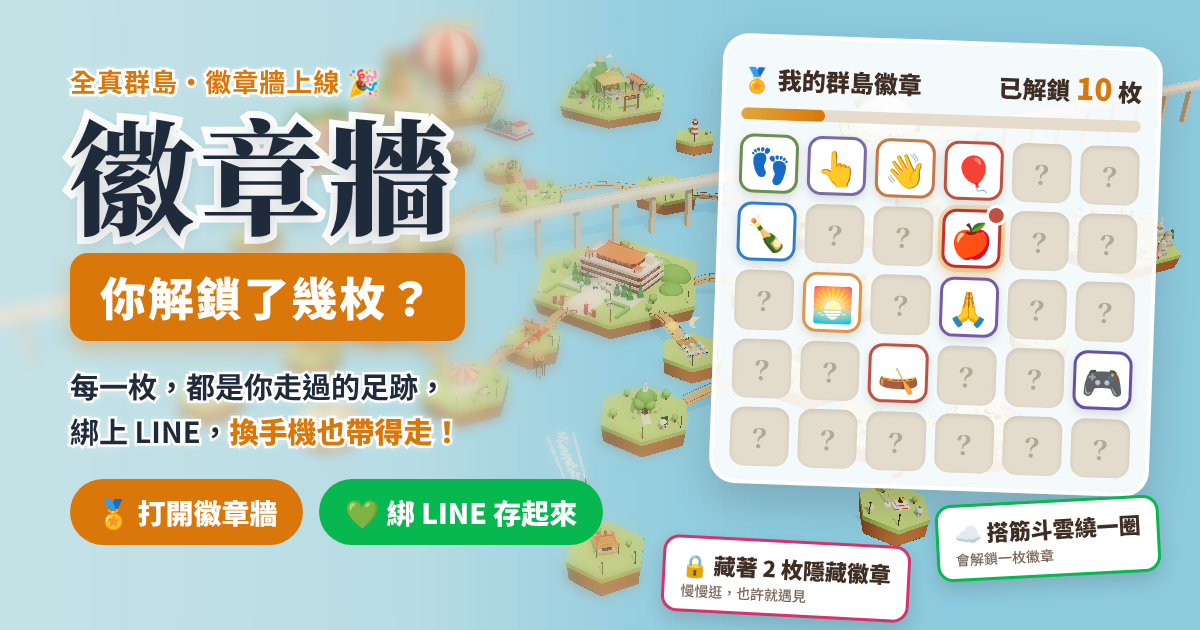
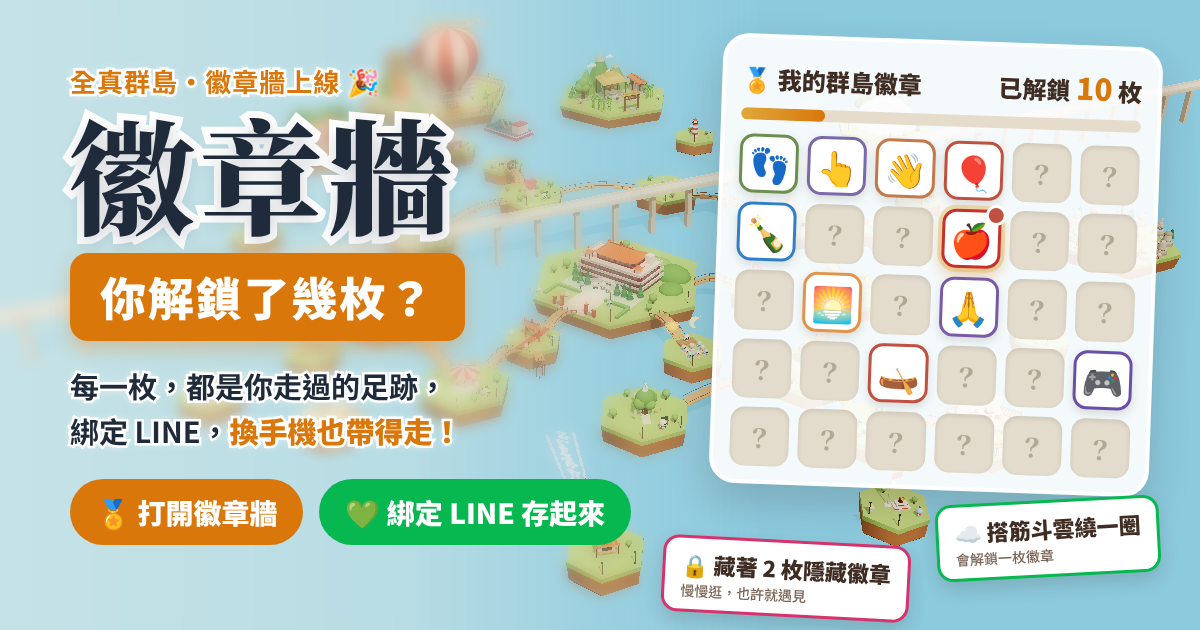
徽章牆縮圖與文案：「綁上 LINE」改成「綁定 LINE」
Claude-Session: https://claude.ai/code/session_01CYjxtCfQ8MjKojeoS8Ncse

Changed region(s): [[0.3392, 0.754, 0.5242, 0.8746], [0.0617, 0.6635, 0.1233, 0.7238]]

diff --git a/islands/badges/index.html b/islands/badges/index.html
@@ -5,11 +5,11 @@
 <meta name="viewport" content="width=device-width, initial-scale=1">
 <meta name="robots" content="noindex, nofollow">
 <title>徽章牆｜全真群島</title>
-<meta name="description" content="全真群島的 48 枚徽章，你解鎖了幾枚？逛島、寫瓶中信、搭熱氣球，每一步都算數；綁上 LINE，換手機也帶得走。">
+<meta name="description" content="全真群島的 48 枚徽章，你解鎖了幾枚？逛島、寫瓶中信、搭熱氣球，每一步都算數；綁定 LINE，換手機也帶得走。">
 <meta property="og:type" content="website">
 <meta property="og:site_name" content="全真群島・2027 全真社青">
 <meta property="og:title" content="🏅 群島 48 枚徽章，你解鎖了幾枚？">
-<meta property="og:description" content="慢慢逛、慢慢收，每一枚都是你的足跡 ✨ 還藏著 2 枚隱藏徽章。綁上 LINE，換手機也帶得走。">
+<meta property="og:description" content="慢慢逛、慢慢收，每一枚都是你的足跡 ✨ 還藏著 2 枚隱藏徽章。綁定 LINE，換手機也帶得走。">
 <meta property="og:url" content="https://steven4dev.github.io/yiguandao-2027-course/islands/badges/">
 <meta property="og:image" content="https://steven4dev.github.io/yiguandao-2027-course/islands/badges/og-badges.png">
 <meta property="og:image:secure_url" content="https://steven4dev.github.io/yiguandao-2027-course/islands/badges/og-badges.png">

diff --git a/islands/promo/poster-badges.html b/islands/promo/poster-badges.html
@@ -50,8 +50,8 @@ h1{margin:6px 0 0;font-family:"Noto Serif TC",serif;font-weight:900;font-size:12
   <div class="kick">全真群島・徽章牆上線 🎉</div>
   <h1>徽章牆</h1>
   <div class="pill">你解鎖了幾枚？</div>
-  <div class="desc">每一枚，都是你走過的足跡，<br>綁上 LINE，<b>換手機也帶得走！</b></div>
-  <div class="btns"><span class="btn" style="background:#d9770a">🏅 打開徽章牆</span><span class="btn" style="background:#06b84f">💚 綁 LINE 存起來</span></div>
+  <div class="desc">每一枚，都是你走過的足跡，<br>綁定 LINE，<b>換手機也帶得走！</b></div>
+  <div class="btns"><span class="btn" style="background:#d9770a">🏅 打開徽章牆</span><span class="btn" style="background:#06b84f">💚 綁定 LINE 存起來</span></div>
 </div>
 <script>
 // 30 格示意：亮的用真實徽章的 emoji 與主色，其餘暗格；其中一格有「新徽章」紅點、一格發光

diff --git a/islands/promo/line-badges.md b/islands/promo/line-badges.md
@@ -24,7 +24,7 @@
 搭熱氣球…每一步，
 都會解鎖一枚徽章 ✨
 
-💚 綁上 LINE 帳號，
+💚 綁定 LINE 帳號，
 換手機，足跡也帶得走！
 （連結）
 ```
@@ -43,7 +43,7 @@
 | 縮圖說明 | 每一枚，都是你走過的足跡 | 肯定感、被看見 |
 | 縮圖小卡 | 藏著 2 枚隱藏徽章，慢慢逛，也許就遇見 | 探索的期待，沒有壓力 |
 | 訊息第一句 | 猜猜我解鎖了幾枚？ | 輕鬆好奇的邀請 |
-| 訊息結尾 | 綁 LINE，足跡也帶得走 | 安心感 |
+| 訊息結尾 | 綁定 LINE，足跡也帶得走 | 安心感 |
 
 ## 避免的說法
 「比一比」「誰贏」「落後」「還沒亮」「快點」——改用「解鎖」「足跡」「慢慢來」「一起」。
